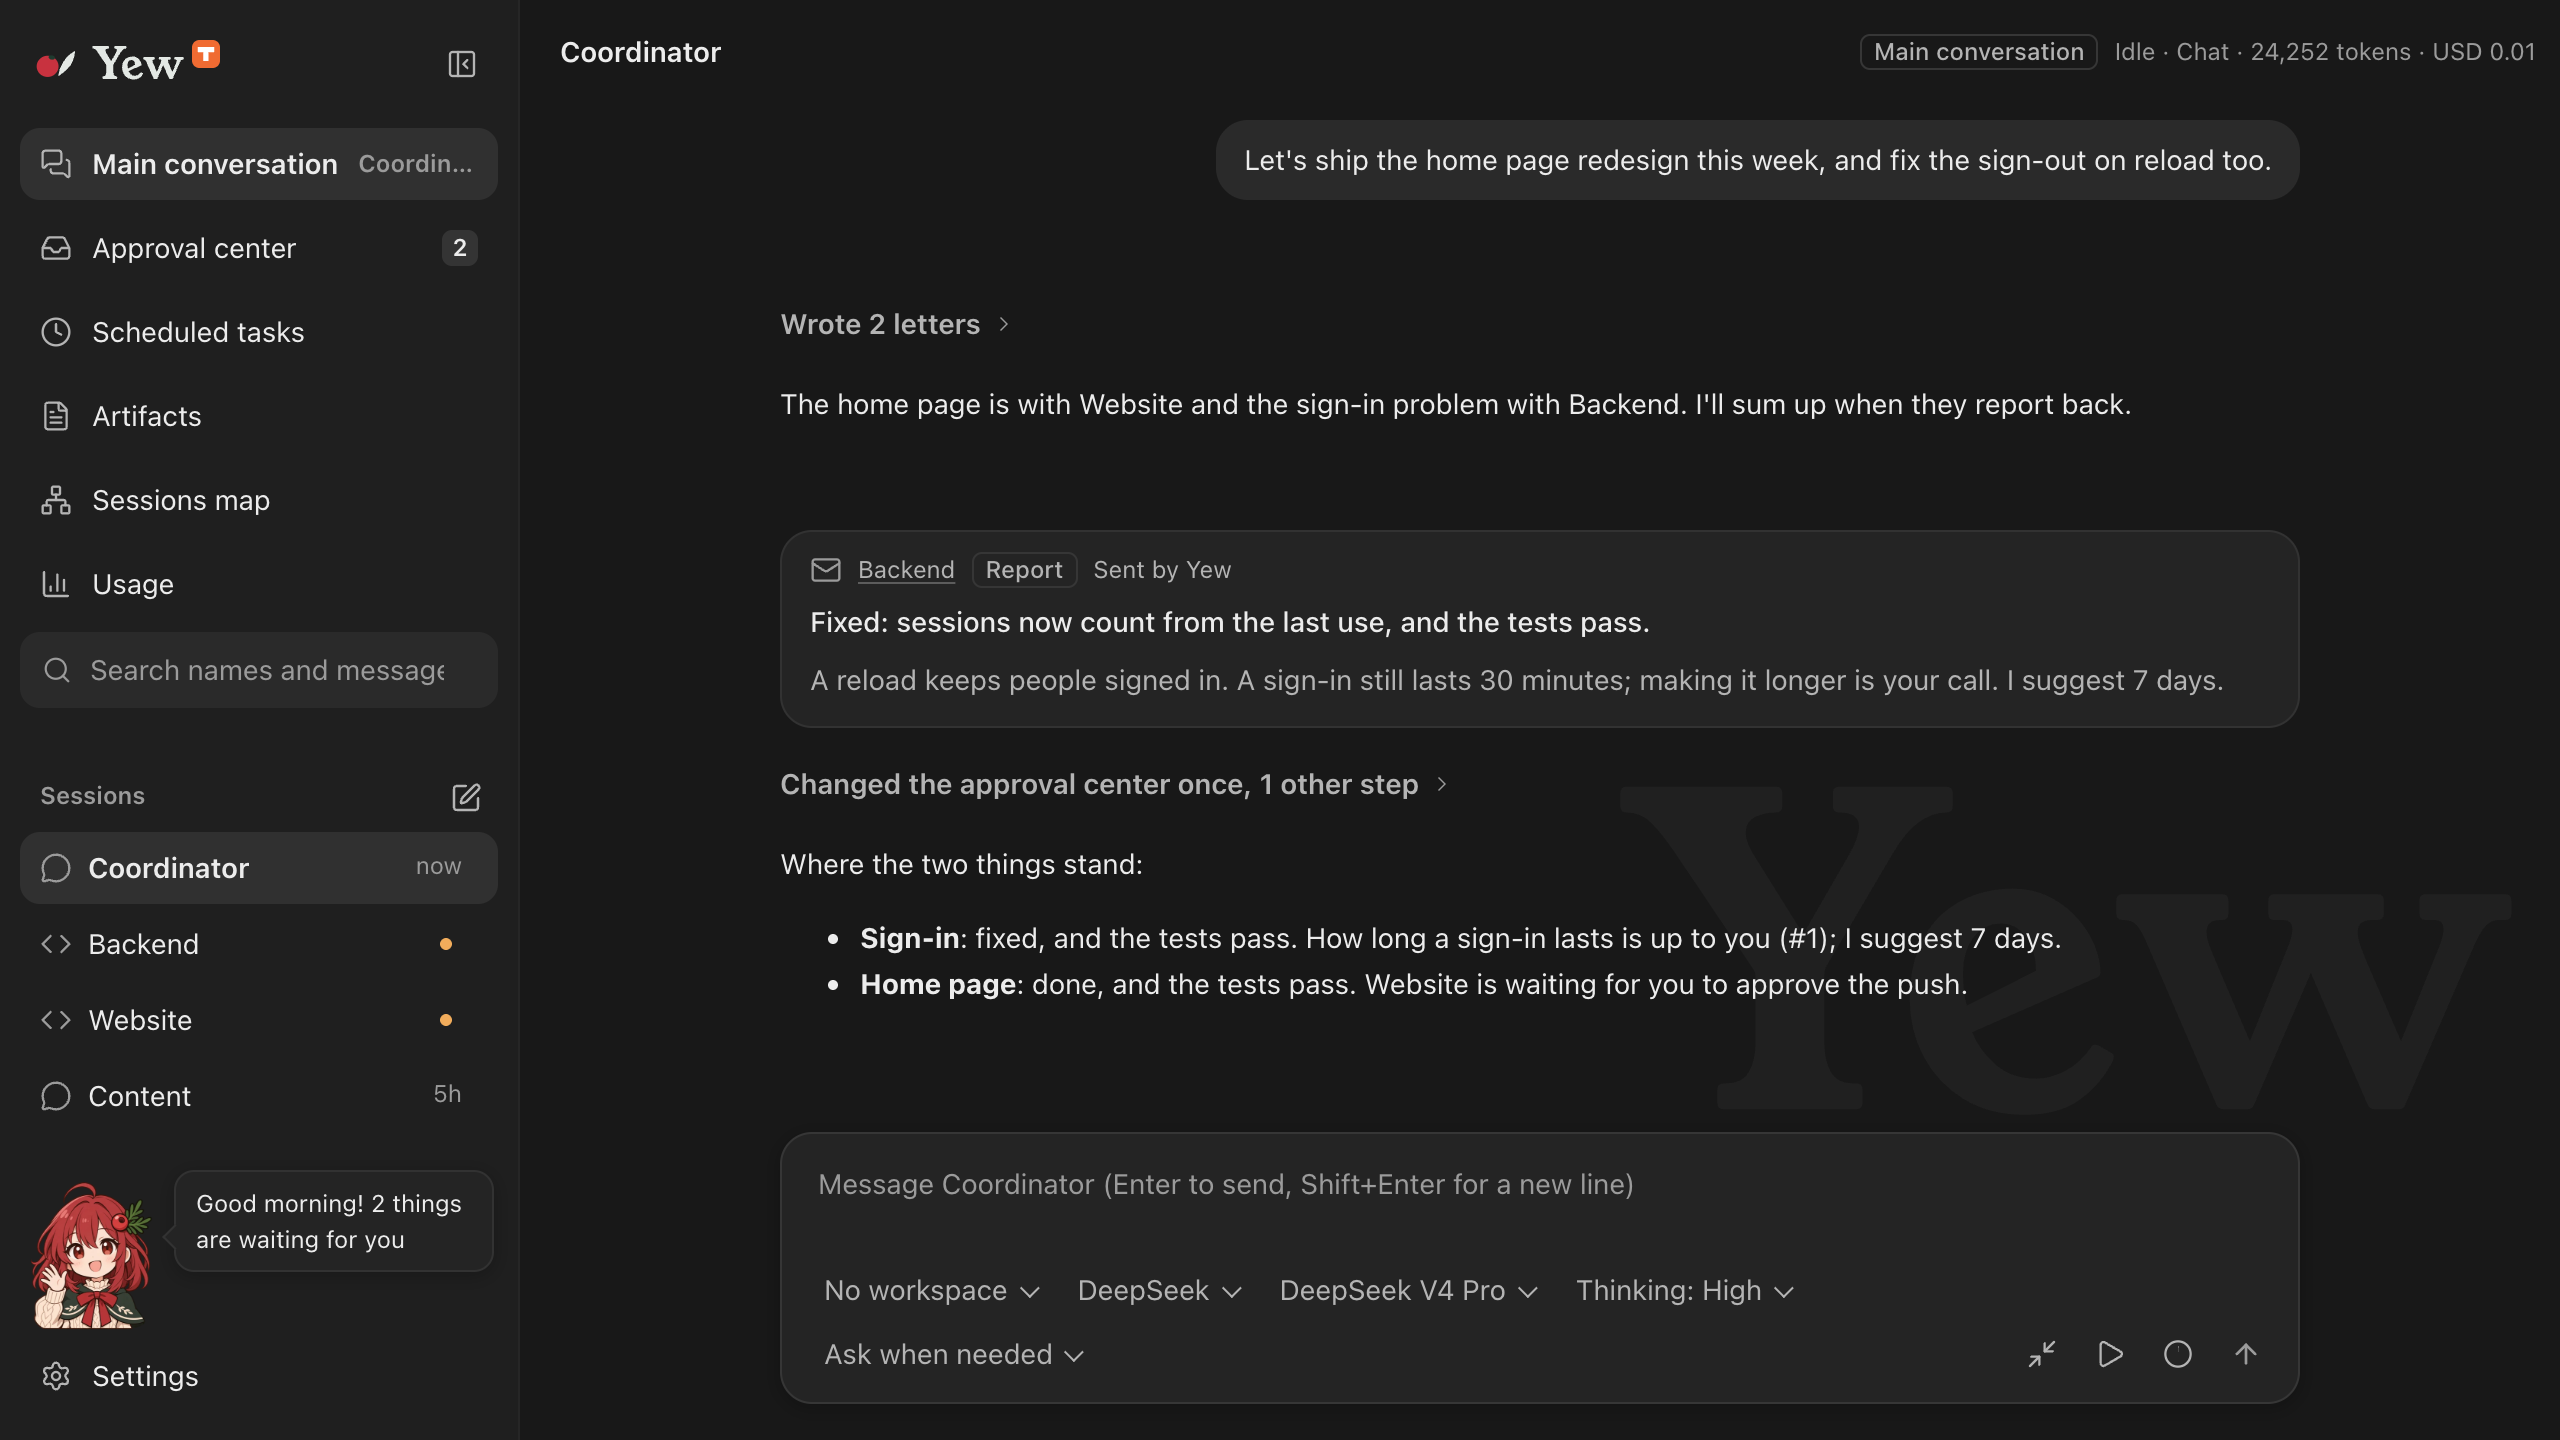
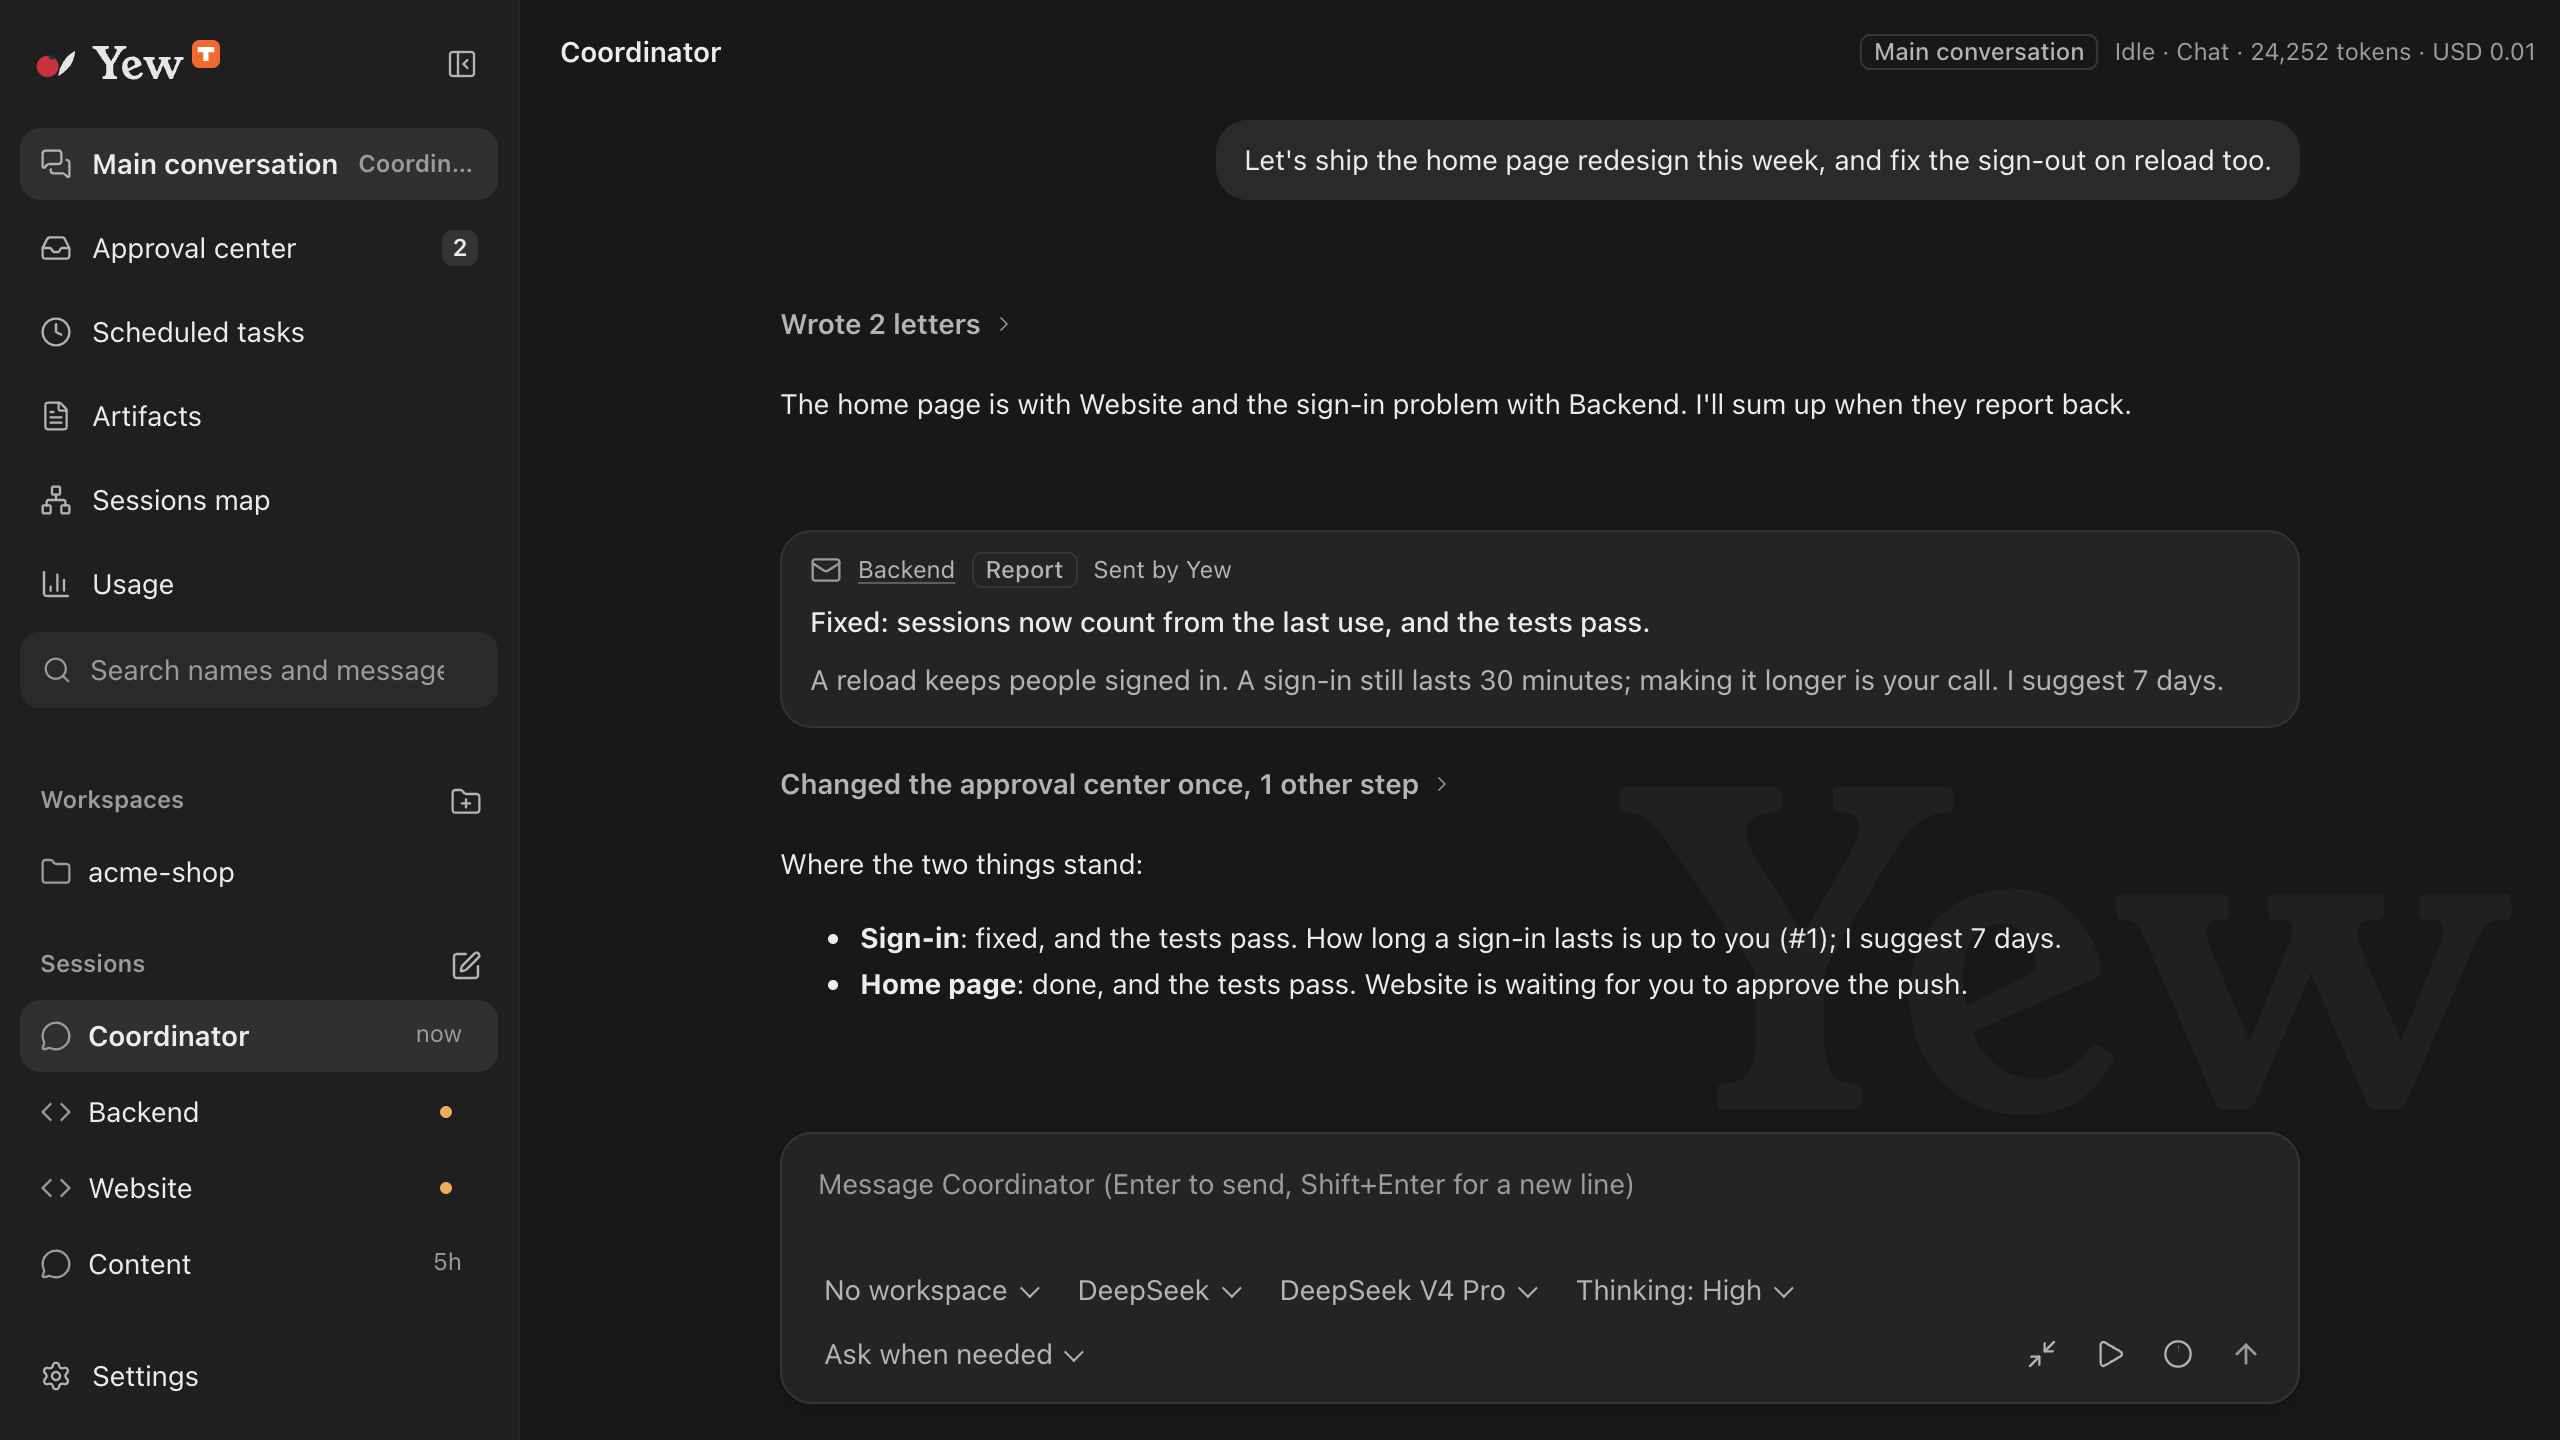
截图：拍网站用的电脑截图时关掉侧栏吉祥物，重拍 20 张（水印照留）
创始人在平台组会话问「配图里每一张图左下角都有提醒，这个是否要去除一下？」：每张图的气泡都是同一句，吉祥物在产品页另有第 6 条主张。手机那 4 张没变。

diff --git a/scripts/screenshots.ts b/scripts/screenshots.ts
@@ -501,6 +501,9 @@ function seed(folder: string, lang: Lang, modelUrl: string): { env: NodeJS.Proce
 	store.setSetting("defaultModel", { provider: "demo", model: "demo-1", thinking: "off" });
 	store.setSetting("language", lang);
 	store.setSetting("theme", "system");
+	// The sidebar mascot's bubble would say the same thing in every picture; the website shows her in a
+	// claim of her own (founder, 2026-11-18: 「配图里每一张图左下角都有提醒，这个是否要去除一下？」).
+	store.setSetting("mascot", false);
 	store.setSetting("workspaces", [{ id: randomUUID(), name: "acme-shop", path: cwd }]);
 	const product = store.createGroup(story.teams.product);
 	const marketing = store.createGroup(story.teams.marketing);
